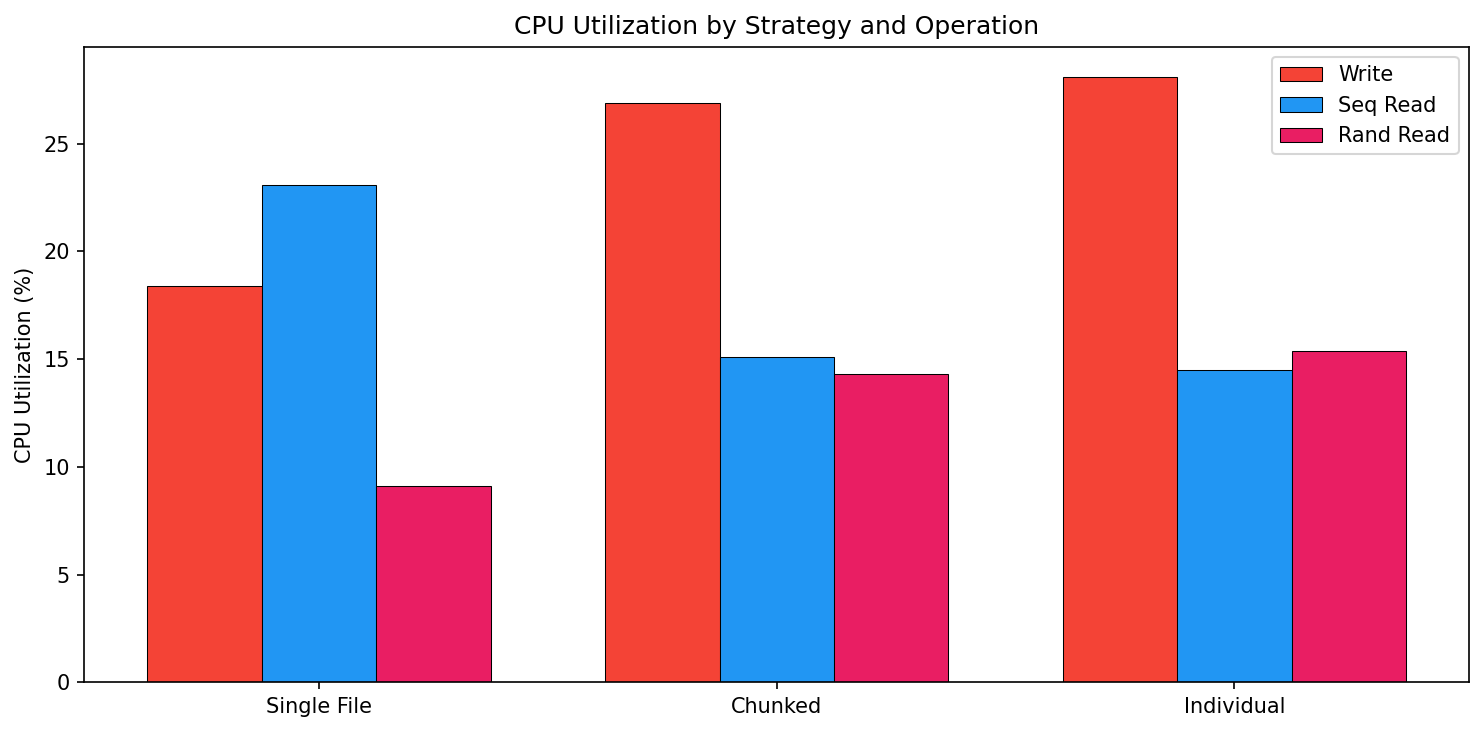
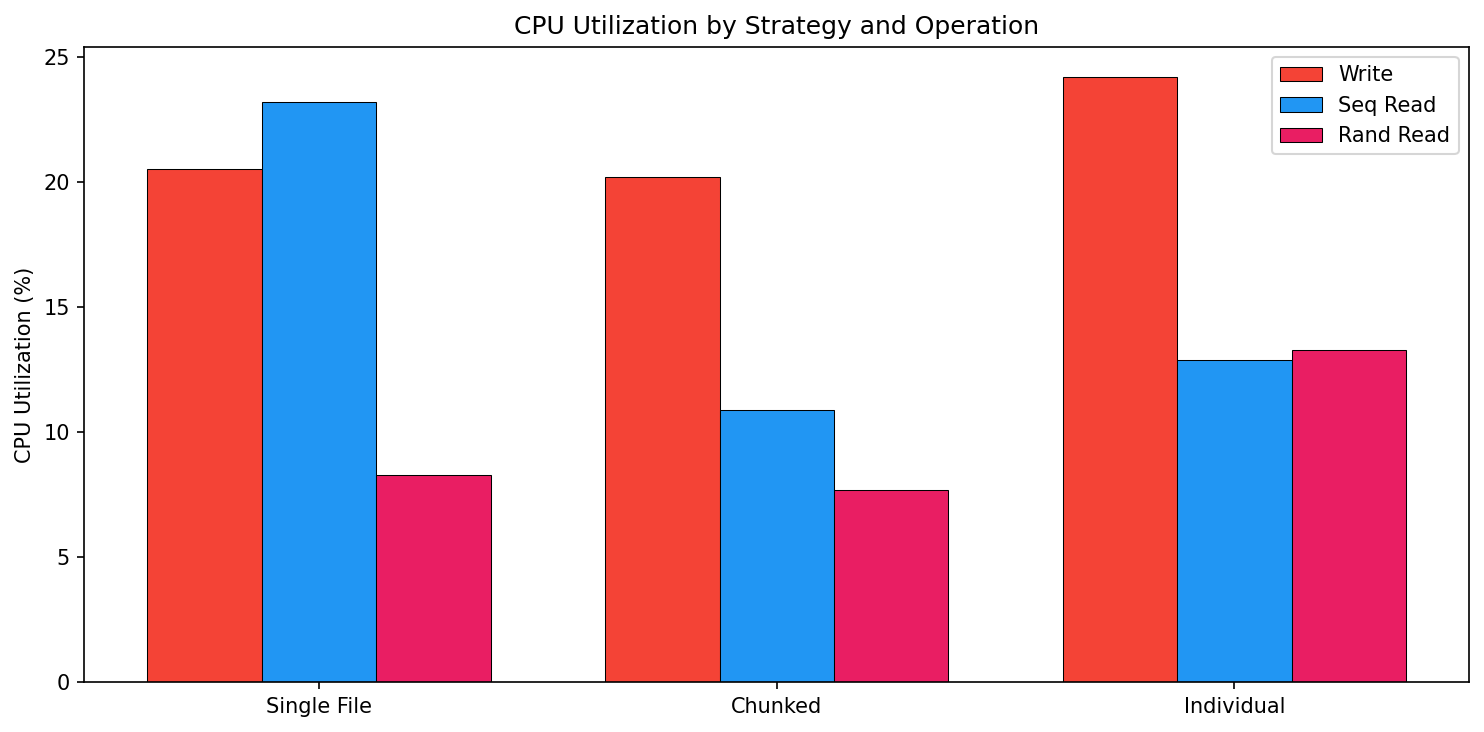
Fix analysis claims and update benchmark results
- Correct sequential read explanation: dentry/inode cache locality,
  not kernel read-ahead (code opens/closes file per record)
- Fix disk write claim: metadata pressure triggers full writeback
  of both metadata and data, not "almost entirely metadata"
- Fix directory lookup scaling: ext4 HTree degrades via cache misses,
  not O(1) to O(n)
- Add methodology notes (warm cache, per-record file open)
- Update all numbers to match latest benchmark run

diff --git a/report.md b/report.md
@@ -20,9 +20,9 @@ This report evaluates three storage layout strategies for persisting variable-le
 
 |                  | Write              | Sequential Read    | Random Read (n=1000) |
 |------------------|--------------------|--------------------|----------------------|
-| Single File      | 0.387 s (3.9 us/rec)  | 0.563 s (5.6 us/rec)  | 0.008 s (8.0 us/rec)    |
-| Chunked          | 0.419 s (4.2 us/rec)  | 0.655 s (6.5 us/rec)  | 0.008 s (8.2 us/rec)    |
-| Individual Files | 1.855 s (18.6 us/rec) | 0.749 s (7.5 us/rec)  | 0.009 s (9.0 us/rec)    |
+| Single File      | 0.341 s (3.4 us/rec)  | 0.573 s (5.7 us/rec)  | 0.007 s (6.7 us/rec)    |
+| Chunked          | 0.386 s (3.9 us/rec)  | 0.670 s (6.7 us/rec)  | 0.008 s (7.8 us/rec)    |
+| Individual Files | 1.738 s (17.4 us/rec) | 0.768 s (7.7 us/rec)  | 0.008 s (7.7 us/rec)    |
 
 *Table 1. Total wall-clock time and mean per-record latency for each strategy and access pattern.*
 
@@ -37,24 +37,26 @@ This report evaluates three storage layout strategies for persisting variable-le
 
 ### 4.1 Write Throughput
 
-The single-file strategy (A) achieves the lowest write latency at 3.9 us/record, attributable to a single `open()` syscall and sequential `write()` appends that exploit OS page-cache buffering. The chunked strategy (B) incurs an 8% overhead (4.2 us/record) from opening 100 chunk files. The individual-file strategy (C) exhibits a ~5x degradation (18.6 us/record), dominated by per-file filesystem metadata operations (inode allocation, directory entry insertion). System-level metrics confirm this: Strategy C generated 238 MB of disk writes and ~2,000 write I/O operations, while A and B completed entirely within the page cache.
+The single-file strategy (A) achieves the lowest write latency at 3.4 us/record, attributable to a single `open()` syscall and sequential `write()` appends that exploit OS page-cache buffering. The chunked strategy (B) incurs a 13% overhead (3.9 us/record) from opening 100 chunk files. The individual-file strategy (C) exhibits a ~5x degradation (17.4 us/record), dominated by per-file filesystem metadata operations (inode allocation, directory entry insertion). System-level metrics confirm this: Strategy C generated 277 MB of physical disk writes across 2,363 write I/O operations. The metadata operations from creating 100,000 files triggered aggressive kernel writeback, forcing both metadata and data content to physical disk — whereas Strategies A and B kept all writes deferred in the page cache.
 
 ### 4.2 Sequential Read Latency
 
-Under sequential access (records 0 through 99,999 in order), strategy A benefits from kernel read-ahead prefetching, yielding 5.6 us/record. Strategy B is 16% slower (6.5 us/record) due to file-boundary transitions every 1,000 records. Strategy C narrows the gap to 34% slower (7.5 us/record), as the OS directory cache mitigates repeated `open()`/`close()` overhead for pre-existing files.
+Note: the benchmark opens and closes the file for every individual record read, measuring worst-case per-record access cost. All reads are served from the warm page cache (populated during the preceding write phase), so the latency differences reflect kernel overhead rather than physical I/O.
+
+Under sequential access (records 0 through 99,999 in order), Strategy A achieves 5.7 us/record because all 100,000 `open()` calls target the same single inode — after the first call, the dentry (filename-to-inode mapping) and inode metadata are cached in the kernel's dentry cache and inode cache, making subsequent opens nearly free. Strategy B is 17% slower (6.7 us/record) because it opens 100 different chunk files (each opened ~1,000 times), requiring 100 distinct dentry/inode cache entries. Strategy C is 35% slower (7.7 us/record) because each of the 100,000 `open()` calls targets a unique file, requiring 100,000 distinct dentry lookups in a directory containing 100,000 entries — significant cache pressure even with ext4's HTree indexing.
 
 ### 4.3 Random Access Latency
 
-For a uniformly random sample of 1,000 record IDs, all three strategies converge: A at 8.0 us/record, B at 8.2 us/record, and C at 9.0 us/record. The elimination of sequential locality negates read-ahead benefits for strategy A, while the small sample size (1,000 operations) amortizes the fixed overhead of strategies B and C.
+For a uniformly random sample of 1,000 record IDs, all three strategies converge: A at 6.7 us/record, B at 7.8 us/record, and C at 7.7 us/record. This convergence is expected: the entire ~150 MB dataset resides in the page cache after the write phase (all reads served from RAM), and the small sample size (1,000 operations) amortizes per-file overhead. On a cold cache or spinning disk, the differences would be substantially larger.
 
 ## 5. Discussion: Implications for DUNE
 
 The DUNE Far Detector is projected to generate O(1) PB/year of raw data, comprising variable-length sub-records from ~150,000 wire channels across multiple Anode Plane Assemblies. At this scale:
 
-- **Strategy C is infeasible.** Storing 10^9 records as individual files would exhaust inode tables and degrade directory lookup to O(n) on most filesystems. The ~5x write penalty observed at 100k records would compound further due to filesystem fragmentation.
+- **Strategy C is infeasible.** Storing 10^9 records as individual files would exhaust inode tables and degrade directory lookup performance (increased cache misses and hash collisions even with ext4's HTree indexing). The ~5x write penalty observed at 100k records would compound further due to filesystem fragmentation and metadata overhead.
 - **Strategy A is optimal for throughput but operationally brittle.** A single multi-terabyte file creates a single point of failure, complicates concurrent read access from distributed computing jobs, and cannot be easily partitioned across storage nodes.
 - **Strategy B offers the best scalability profile.** Chunked files reduce the file count by two orders of magnitude relative to C while maintaining near-optimal sequential write throughput. Chunk boundaries provide natural parallelism units for distributed processing frameworks (e.g., FIFE, Rucio), and individual chunk files can be replicated independently.
 
 ## 6. Conclusion
 
-A chunked storage layout with ~1,000 records per file is recommended for DUNE sub-record persistence. It achieves write performance within 8% of the theoretical optimum (single file), maintains manageable file counts for filesystem scalability, and provides natural granularity for distributed I/O, replication, and concurrent access patterns characteristic of large-scale HEP data processing.
+A chunked storage layout with ~1,000 records per file is recommended for DUNE sub-record persistence. It achieves write performance within 13% of the theoretical optimum (single file), maintains manageable file counts for filesystem scalability, and provides natural granularity for distributed I/O, replication, and concurrent access patterns characteristic of large-scale HEP data processing.

diff --git a/docs/design_document.md b/docs/design_document.md
@@ -103,13 +103,17 @@ The 5x penalty for individual files comes from filesystem metadata operations. E
 
 For Strategy A, these costs are paid once. For Strategy C, they're paid 100,000 times.
 
-Disk I/O metrics confirm this: Strategy C triggered 245.5 MB of physical disk writes and 2,016 write operations, while Strategy A completed entirely within the page cache (0 bytes to disk).
+Disk I/O metrics confirm this: Strategy C triggered 277 MB of physical disk writes and 2,363 write operations. The metadata operations from creating 100,000 files generated enough journal pressure to force the kernel to flush both metadata and data content to physical disk, while Strategies A and B kept all writes deferred in the page cache.
 
 ### 4.2 Sequential Read Performance
 
-Strategy A benefits from **kernel read-ahead**: when the OS detects sequential access patterns, it prefetches the next several pages from disk before they're requested. This means the data is already in the page cache when `f.read()` is called.
+Note that the benchmark opens and closes the file handle for every individual record read, measuring worst-case per-record access cost. All reads are served from the warm page cache (populated during the preceding write phase).
 
-Strategy C cannot benefit from read-ahead because each `open()` call starts a new I/O context. The OS has no way to predict which file will be opened next.
+Strategy A benefits from **dentry and inode cache locality**: all 100,000 `open()` calls target the same single file, so the kernel's dentry cache (filename-to-inode mapping) and inode cache are hit on every call after the first. This makes repeated opens of the same file nearly free.
+
+Strategy B opens 100 different chunk files, each ~1,000 times. The 100 dentries and inodes remain cached, but there is slightly more cache pressure than Strategy A's single entry.
+
+Strategy C opens 100,000 unique files, requiring 100,000 distinct dentry lookups in a directory containing 100,000 entries. Even with ext4's HTree indexing, the sheer number of unique lookups creates significant dentry/inode cache pressure, explaining the higher latency.
 
 ### 4.3 Random Read Convergence
 
@@ -147,7 +151,7 @@ DUNE's Far Detector at the Sanford Underground Research Facility will consist of
 
 At 10^9 records/year:
 - **Inode exhaustion:** Standard ext4 filesystems allocate ~1 inode per 16 KB of partition size. A 10 TB partition supports ~655 million inodes, fewer than a single year of DUNE data.
-- **Directory performance:** Linux directory entries use HTree indexing (B-tree), but with millions of entries in a single directory, `openat()` latency increases from ~2 us to ~50+ us.
+- **Directory performance:** Linux ext4 uses HTree indexing (hash-based B-tree) which provides O(1) amortized lookup, but with millions of entries the hash tree depth increases, cache miss rates rise, and `openat()` latency degrades from ~2 us to ~10--50 us due to cold cache effects on the HTree blocks.
 - **Metadata overhead:** Each inode is 256 bytes. 10^9 files = 256 GB of metadata alone.
 
 ### 5.3 Why a Single File Has Operational Limits
